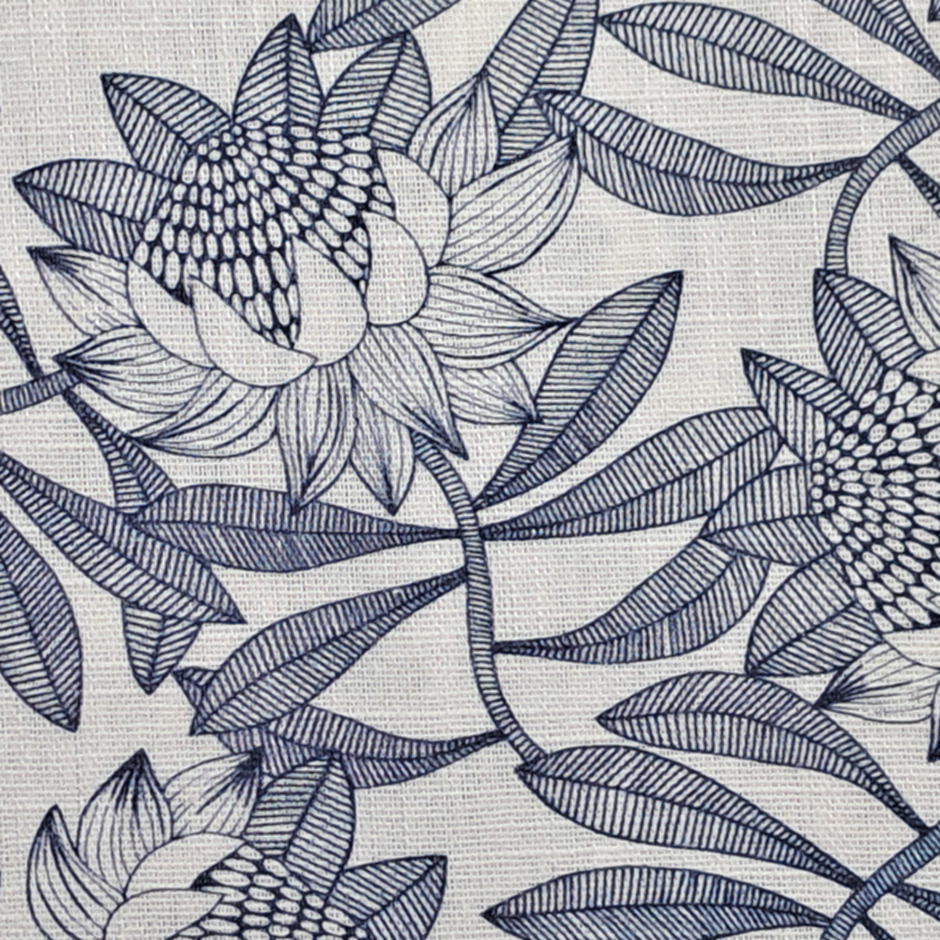
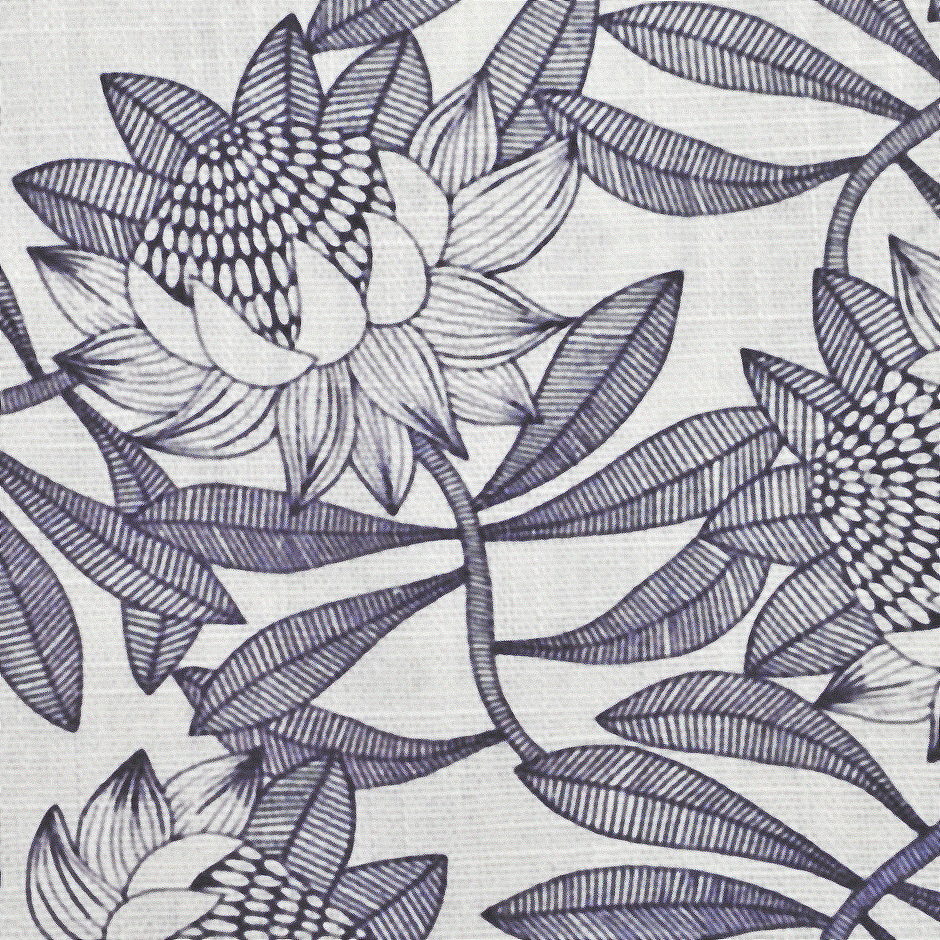
Fix caveat & 3

diff --git a/boxies.html b/boxies.html
@@ -346,7 +346,7 @@
 <!--------------------------------------------------Caveat------------------------------------------------------------->
 
 <p class="my-6 p-4 bg-lime-100 border-l-4 border-lime-600 text-sm text-lime-700 rounded-md max-w-4xl mx-auto">
-                    <span class="font-bold">* Please note:</span> Since all screens reproduce colours differently, it's possible that our actual fabric shades are slighly different from what you see on your phone or computer. The difference shouldn't be too great but you should be aware of this.
+                    <span class="font-bold">* Please note:</span> Since all screens vary in the way they reproduce colours, it's possible that what you see on your phone or computer is slighly different from our actual fabric shades. Any differences shouldn't be too great but please be aware of this issue.
                 </p>
 
 <!-------------------------------------------------Instructions------------------------------------------------>
